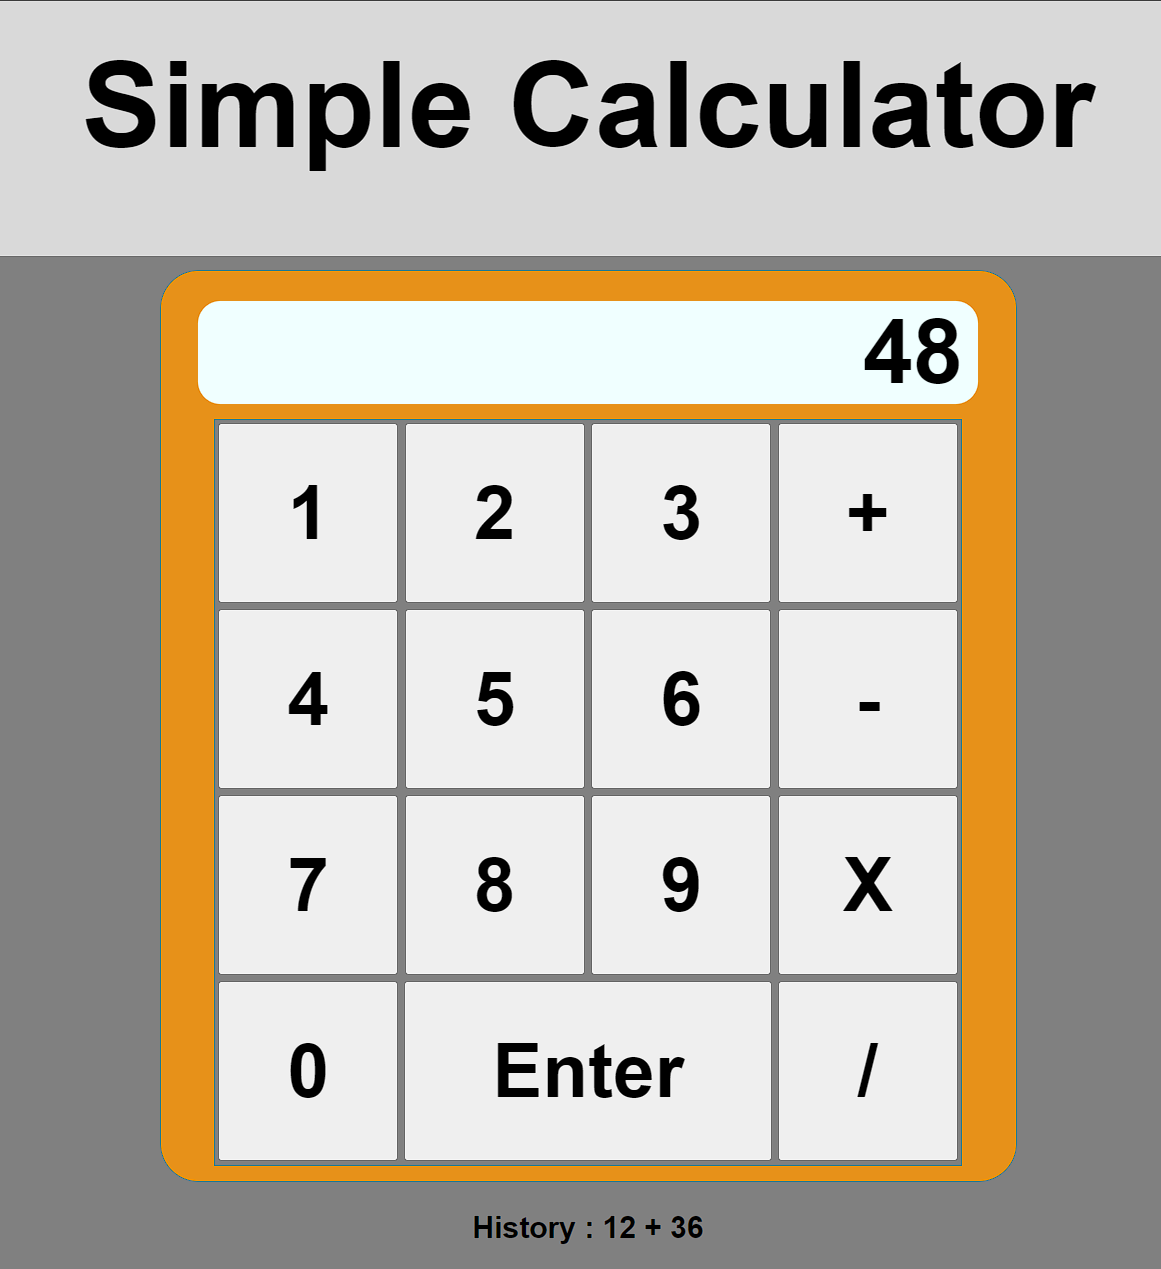
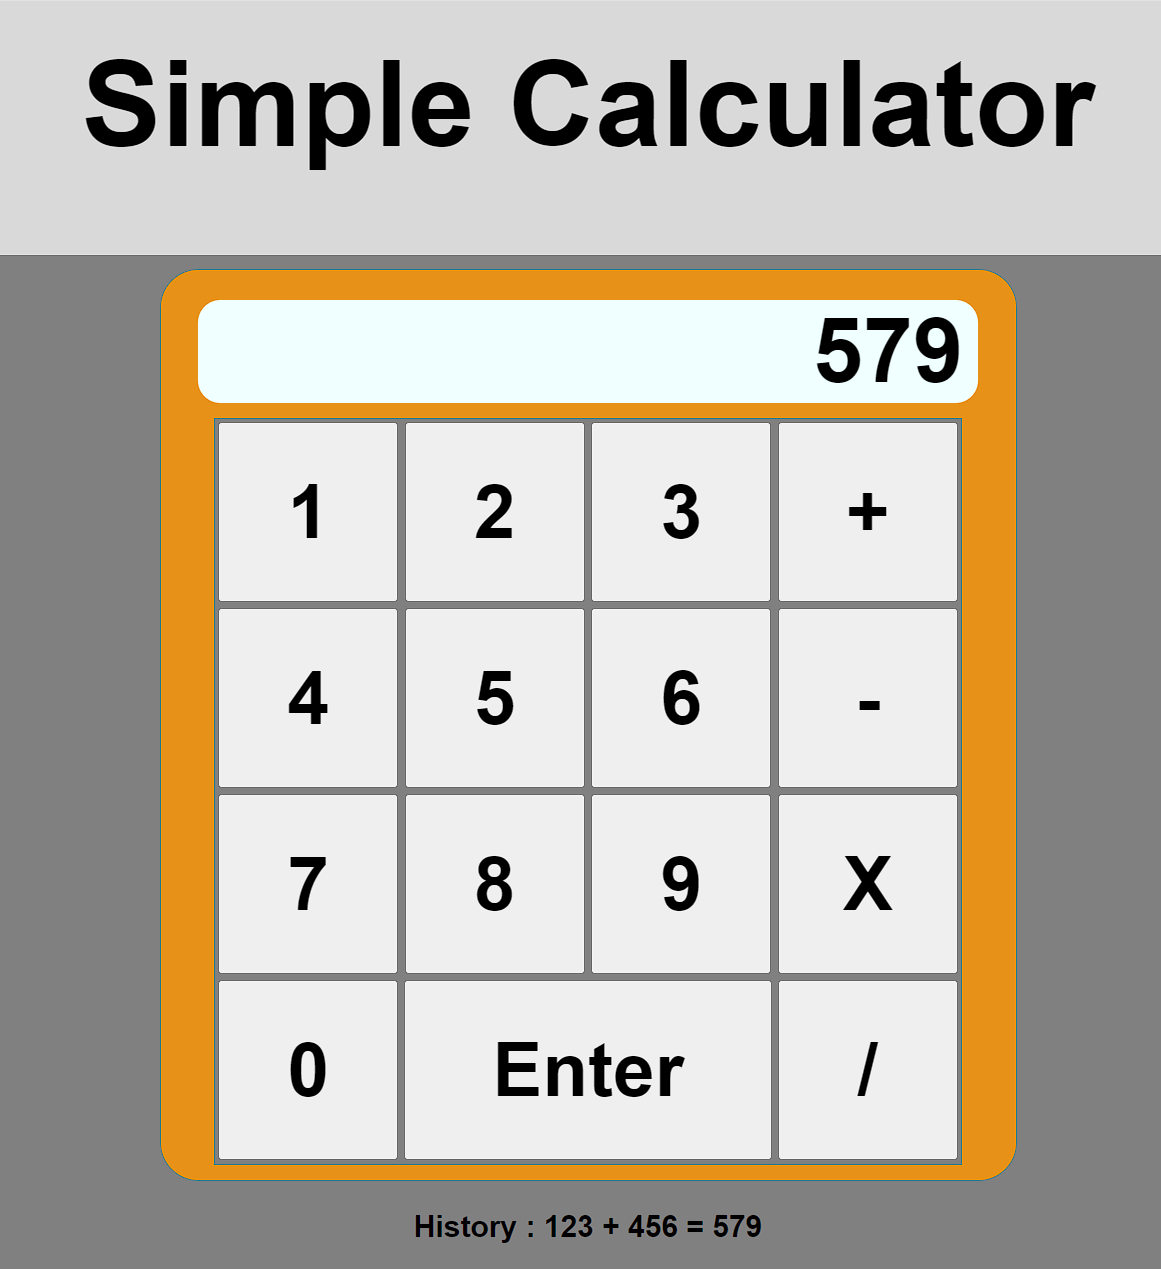
Make calculation history show result

diff --git a/index.js b/index.js
@@ -43,15 +43,19 @@ function enter() {
             break;
         case 1: //+
             outputEl.innerText = mem + parseFloat(outputEl.innerText)
+            calEl.textContent += " = " + outputEl.innerText
             break;
         case 2: //-
             outputEl.innerText = mem - parseFloat(outputEl.innerText)
+            calEl.textContent += " = " + outputEl.innerText
             break;
         case 3: //*
             outputEl.innerText = mem * parseFloat(outputEl.innerText)
+            calEl.textContent += " = " + outputEl.innerText
             break;
         case 4: //divide
             outputEl.innerText = (mem / parseFloat(outputEl.innerText)).toFixed(4)
+            calEl.textContent += " = " + outputEl.innerText
             break;
     }
     operation = 0
